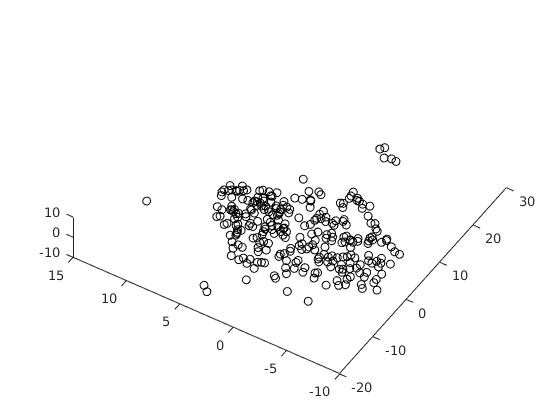
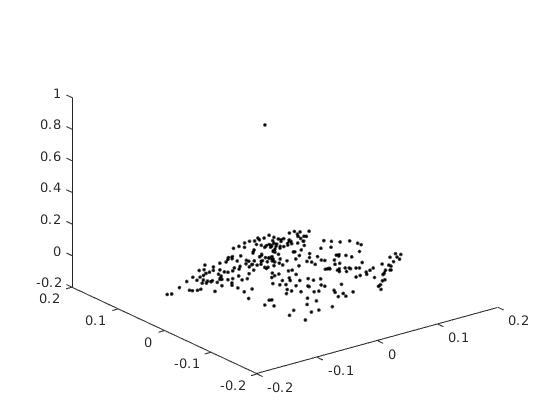
removing affine ambiguity and skeleton for RANSAC F-mat outlier filtering

diff --git a/Assignment 2/Assignment 2/point_stitching.m b/Assignment 2/Assignment 2/point_stitching.m
@@ -3,9 +3,9 @@ function total_pointcloud = point_stitching(total_pointcloud, dense_submat, idx)
     % we need at least 3 points in 2 frames to construct a 3D pointcloud
     if all(size(dense_submat) >= [4, 3])
         % get 3D points from the dense submatrix
-        [~, add_pointcloud] = dense_sfm(dense_submat);
-
-        %if (idx < (size(total_pointcloud, 2) - 6) || total_pointcloud == 0 ) && all(size(dense_mat) >= [4, 3])
+        [motion, shape] = dense_sfm(dense_submat);
+        add_pointcloud = remove_affine_ambiguity(motion, shape);
+        %add_pointcloud = shape;
 
         % add 3D points to the total cloud
         if total_pointcloud == 0
@@ -20,8 +20,9 @@ function total_pointcloud = point_stitching(total_pointcloud, dense_submat, idx)
             [~, ~, transform] = procrustes(target, source);
             c = transform.c; % translation
             T = transform.T; % rotation
+            b = transform.b; % scaling
                         
-            add_pointcloud = add_pointcloud*T + c;
+            add_pointcloud = b*add_pointcloud*T + c;
             
             % add all (or only points not-yet-present? whatabout
             % interpolation?)

diff --git a/Assignment 2/Assignment 2/get_pointview_mat.m b/Assignment 2/Assignment 2/get_pointview_mat.m
@@ -13,6 +13,8 @@ function PointViewMatrix = get_pointview_mat(dir_to_search)
         % get corresponding points
         c = keypoint_matching(im1, im2);
         
+        % c = filter by sampson distance(c)
+        
         % remove double correspondences
         [C, ia, ic]= unique(c(1:2,:,1)','rows','stable');
         c1 = C';

diff --git a/Assignment 2/Assignment 2/main.m b/Assignment 2/Assignment 2/main.m
@@ -11,7 +11,7 @@ F = get_fundamental_mat(im1, im2, 'norm', 'show');
 F = get_fundamental_mat(im1, im2, 'norm', 'show', 'ransac');
 
 %% construct the pointview matrix from the frames using SIFT
-%pvm_sparse = get_pointview_mat('Data/House/House/');
+pvm_sparse = get_pointview_mat('Data/House/House/');
 
 ts = [3, 8, -3, -8];
 

diff --git a/Assignment 2/Assignment 2/show_pointcloud.m b/Assignment 2/Assignment 2/show_pointcloud.m
@@ -1,12 +1,13 @@
 function show_pointcloud(pc)
     x = pc(1,:);
     y = pc(2,:);
-    z = -pc(3,:);
+    z = pc(3,:);
 
     tri = delaunay(x, y);
+    
     figure()
     trisurf(tri, x, y, z);
 
     figure()
-    plot3( x, y, z, 'ko');
+    plot3( x, y, z, 'k.');
 end

diff --git a/Assignment 2/Assignment 2/filter_by_sampson_distance.m b/Assignment 2/Assignment 2/filter_by_sampson_distance.m
@@ -1,0 +1,10 @@
+function c = filter_by_sampson_distance(c)
+
+F = get_fundamental_mat(c)
+
+% determine sampson distance for each correspondence
+% filter out those correspondences with d > t
+% return only correspondences with d < t
+
+
+end

diff --git a/Assignment 2/Assignment 2/remove_affine_ambiguity.m b/Assignment 2/Assignment 2/remove_affine_ambiguity.m
@@ -1,0 +1,5 @@
+function shape = remove_affine_ambiguity(motion, shape)
+    L = pinv(motion)' \ motion;
+    C = chol(L)';
+    shape = inv(C)*shape;
+end
